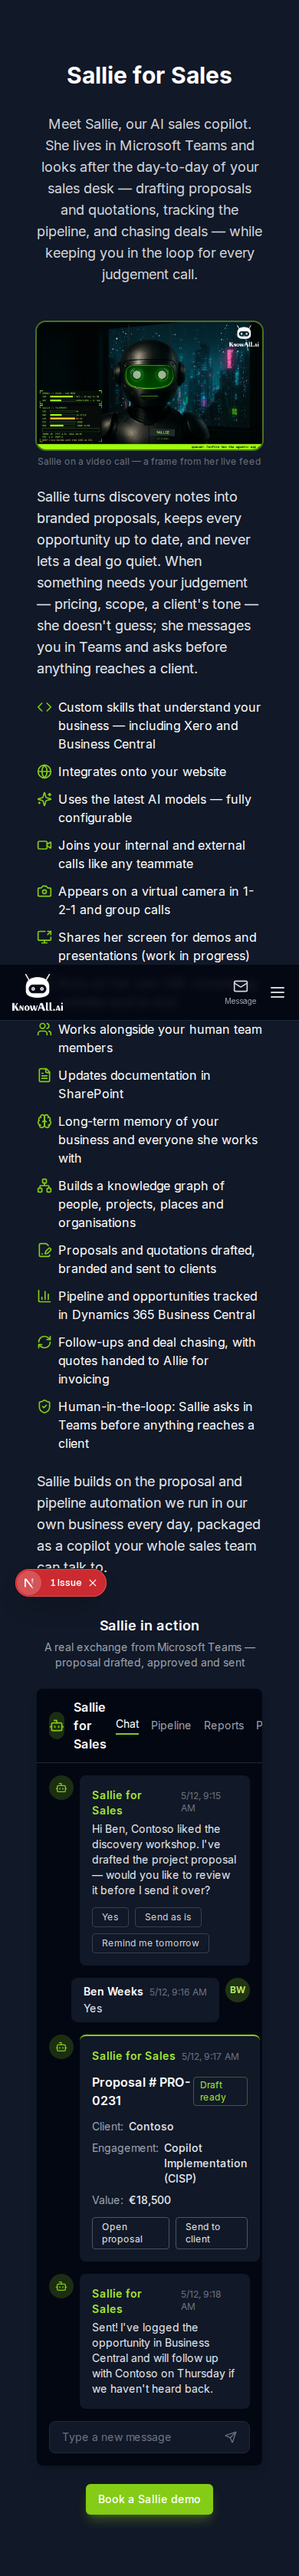
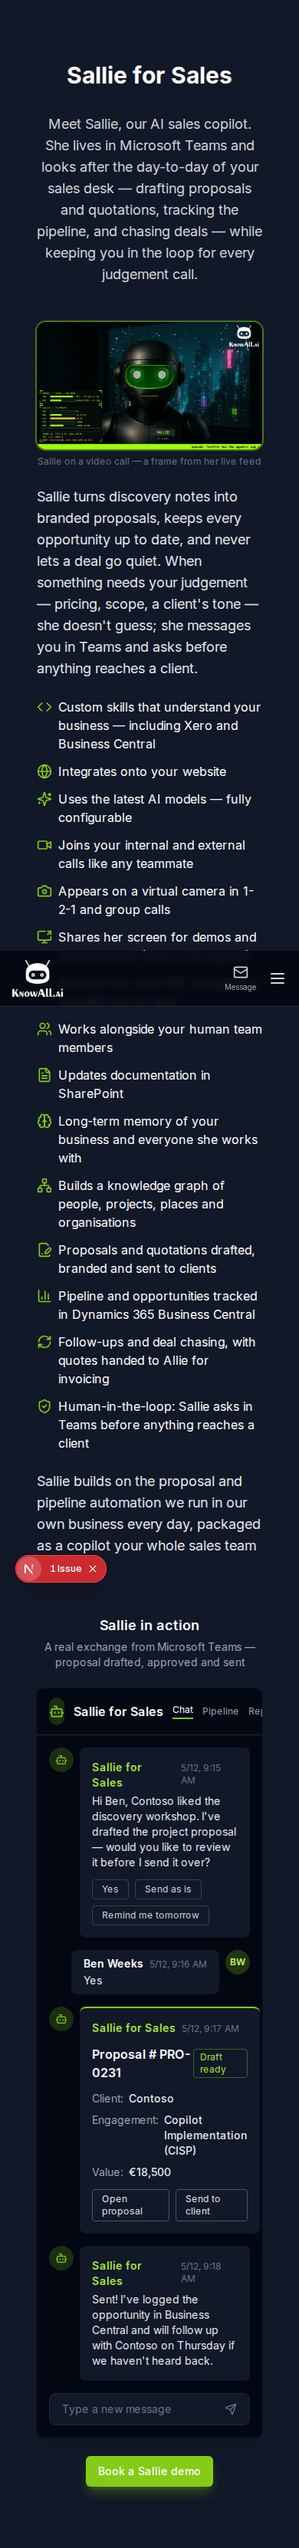
feat: widen the Sallie text column and fix the chat header wrap
58/42 split gives the video and capability grid more room and closes
the height mismatch beside the chat cluster; the mockup's title no
longer wraps in the narrower card.

Claude-Session: https://claude.ai/code/session_01UzJ7i2xhbqKdiKk7eGYZvx

diff --git a/app/page.tsx b/app/page.tsx
@@ -571,7 +571,7 @@ export default function Home() {
           </p>
 
           <div className="flex flex-col lg:flex-row items-center gap-12">
-            <div className="flex-1">
+            <div className="flex-[1.4]">
               <figure className="mb-6">
                 <Image
                   src="/images/sallie-video-call.jpg"
@@ -667,7 +667,7 @@ export default function Home() {
               </p>
             </div>
 
-            <div className="flex-1 w-full max-w-md flex flex-col justify-center gap-6 self-stretch">
+            <div className="flex-1 w-full lg:max-w-none max-w-md flex flex-col justify-center gap-6 self-stretch">
               <div className="text-center">
                 <h3 className="text-lg font-semibold">Sallie in action</h3>
                 <p className="text-sm text-gray-400 mt-1">
@@ -686,8 +686,8 @@ export default function Home() {
                   <div className="flex h-9 w-9 items-center justify-center rounded-full bg-lime-500/20">
                     <Bot className="h-5 w-5 text-lime-500" />
                   </div>
-                  <span className="font-semibold">Sallie for Sales</span>
-                  <div className="ml-auto flex items-center gap-4 text-sm text-gray-400">
+                  <span className="font-semibold whitespace-nowrap">Sallie for Sales</span>
+                  <div className="ml-auto flex items-center gap-3 text-xs text-gray-400">
                     <span className="text-white border-b-2 border-lime-500 pb-0.5">Chat</span>
                     <span>Pipeline</span>
                     <span>Reports</span>
